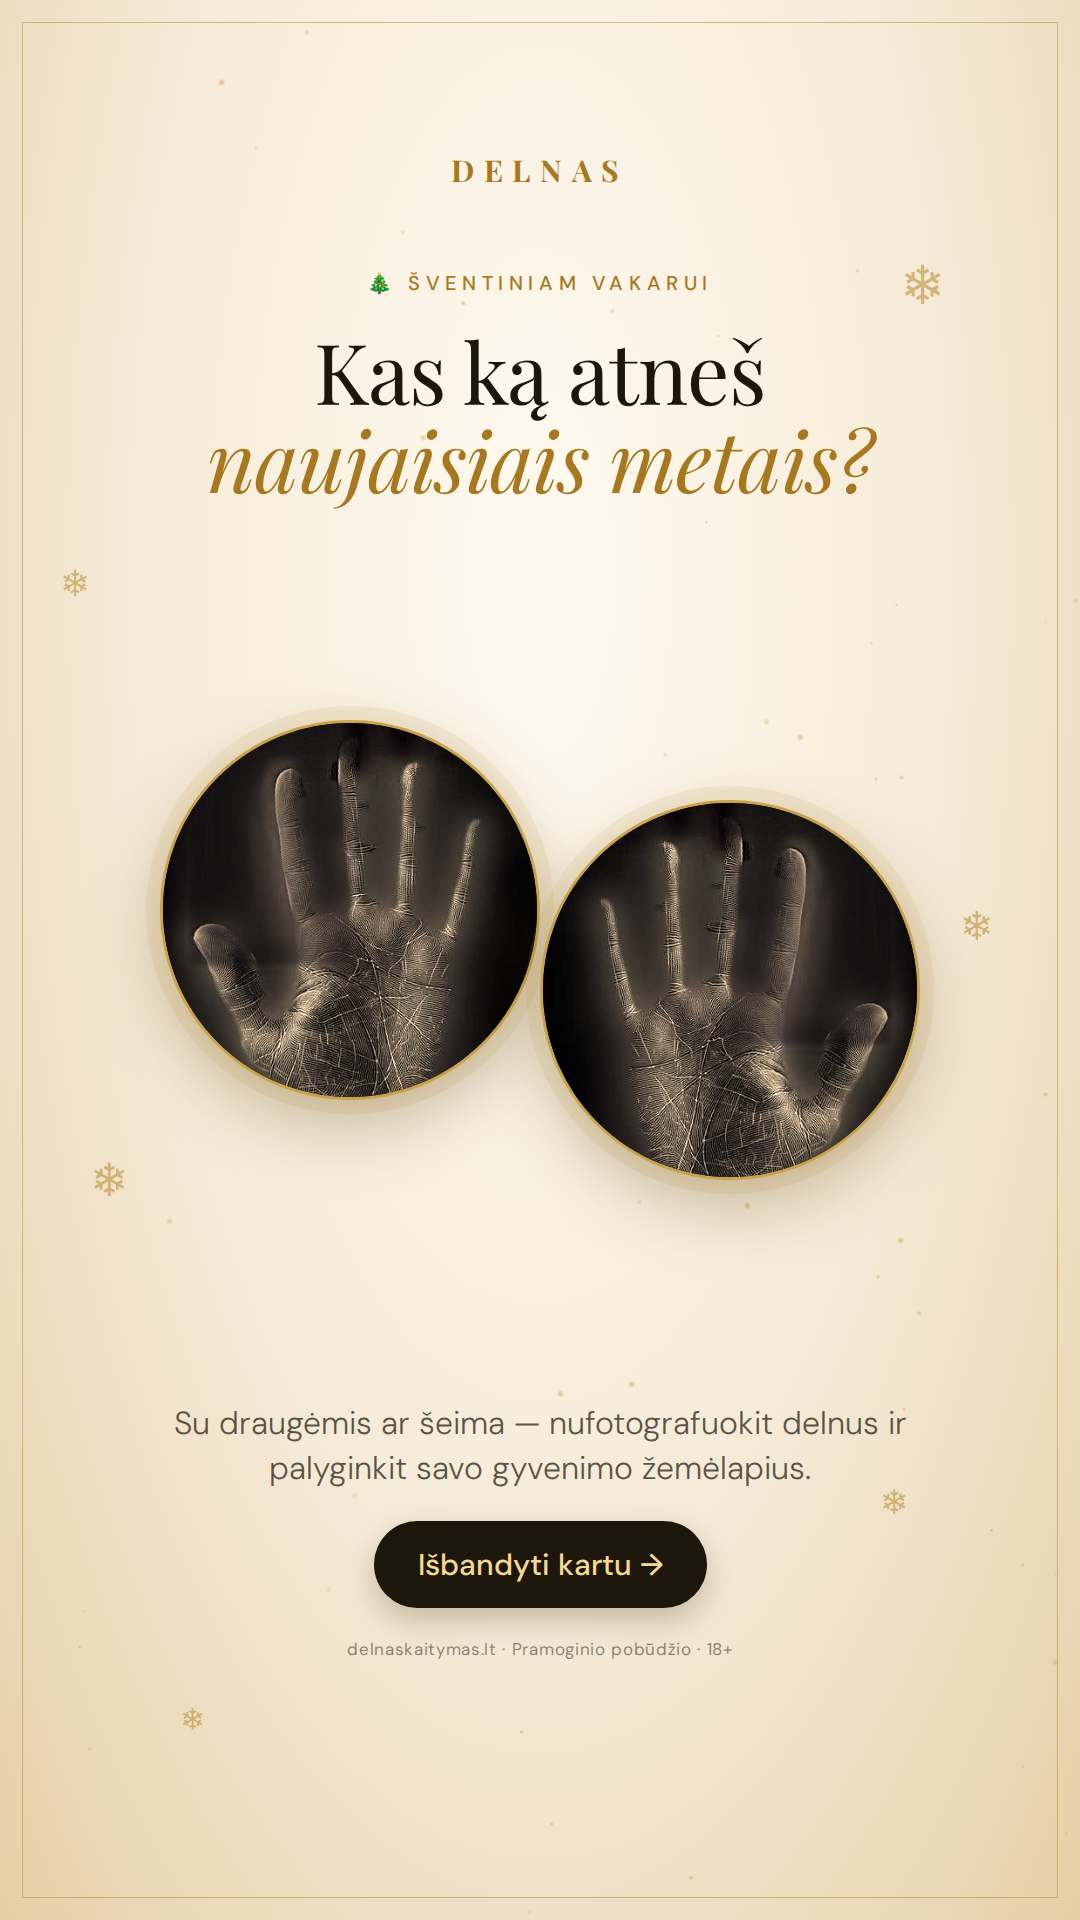
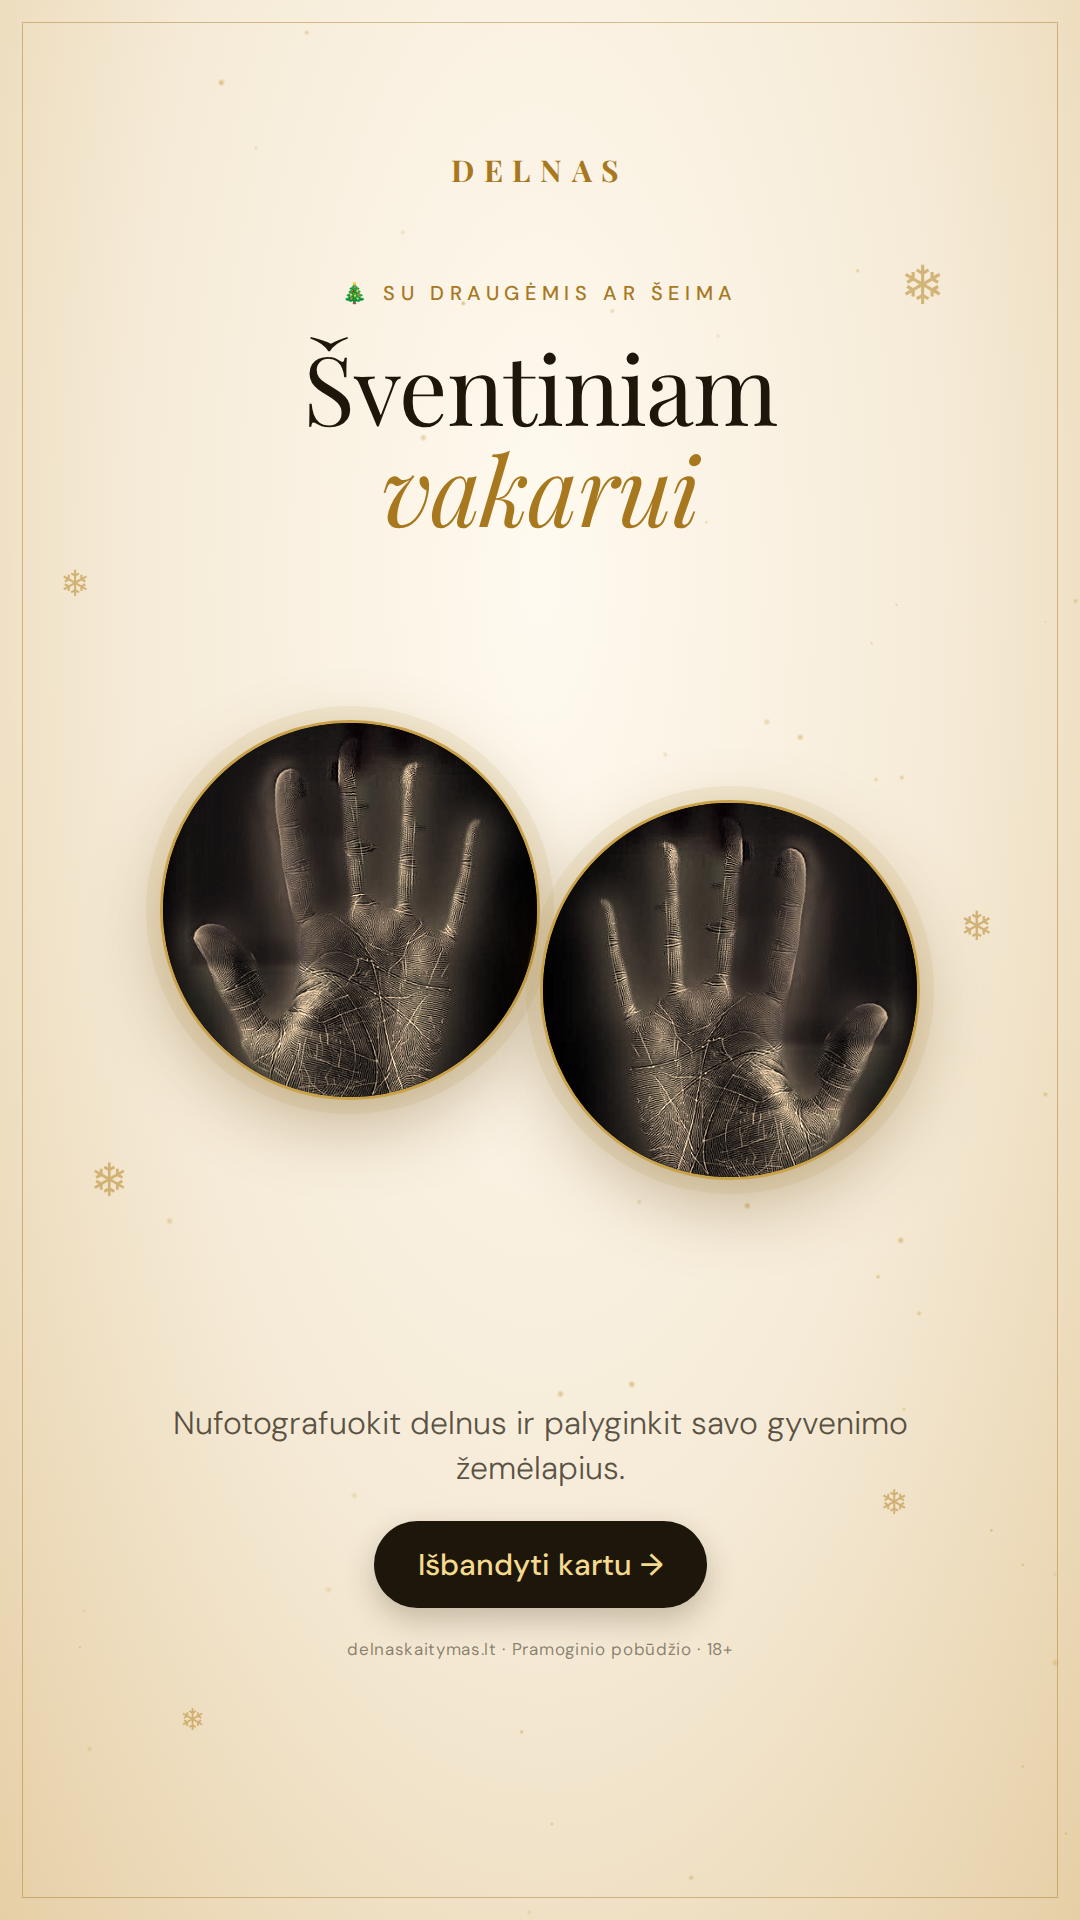
Reklamos: 28 — antraštė „Šventiniam vakarui“ vietoj „Kas ką atneš naujaisiais metais?“
Claude-Session: https://claude.ai/code/session_01SAS6jcXVwrehsNMXyhjzXP

Changed region(s): [[0.1833, 0.125, 0.825, 0.2812], [0.1528, 0.7188, 0.825, 0.7812]]

diff --git a/reklamos/reklamos.html b/reklamos/reklamos.html
@@ -715,12 +715,12 @@
 <div class="ad xmas light" id="28-kaledu-vakaras-story-1080x1920" style="width:1080px;height:1920px;padding:150px 90px 260px;align-items:center;text-align:center">
   <div class="flake" style="left:900px;top:250px;font-size:54px">❄</div><div class="flake" style="left:60px;top:560px;font-size:36px">❄</div><div class="flake" style="left:960px;top:900px;font-size:40px">❄</div><div class="flake" style="left:90px;top:1150px;font-size:46px">❄</div><div class="flake" style="left:880px;top:1480px;font-size:34px">❄</div><div class="flake" style="left:180px;top:1700px;font-size:30px">❄</div>
   <div class="brand">DELNAS</div>
-  <p class="eyebrow" style="margin-top:80px">🎄 Šventiniam vakarui</p>
-  <h1 style="font-size:84px;margin-top:30px">Kas ką atneš<br><em>naujaisiais metais?</em></h1>
+  <p class="eyebrow" style="margin-top:90px">🎄 Su draugėmis ar šeima</p>
+  <h1 style="font-size:96px;margin-top:30px">Šventiniam<br><em>vakarui</em></h1>
   <div class="medal" style="width:380px;height:380px;left:160px;top:720px"><i></i></div>
   <div class="medal" style="width:380px;height:380px;left:540px;top:800px"><i style="transform:scaleX(-1)"></i></div>
   <div style="margin-top:auto;display:flex;flex-direction:column;gap:30px;align-items:center">
-    <p class="sub" style="max-width:840px">Su draugėmis ar šeima — nufotografuokit delnus ir palyginkit savo gyvenimo žemėlapius.</p>
+    <p class="sub" style="max-width:840px">Nufotografuokit delnus ir palyginkit savo gyvenimo žemėlapius.</p>
     <div class="cta" style="align-self:center">Išbandyti kartu →</div>
     <div class="fine">delnaskaitymas.lt · Pramoginio pobūdžio · 18+</div>
   </div>

diff --git a/reklamos/TEKSTAI.md b/reklamos/TEKSTAI.md
@@ -270,7 +270,7 @@ Generuoti: `node reklamos/video-render.js video2.html delnas-reels-draugems-1080
 | `25-metu-pabaiga-1080x1350.png` | 4:5 | „Metų pabaiga — laikas pažvelgti į savo kelią“ |
 | `26-dovana-sau-1080x1080.png` | 1:1 | Šviesus · „Dovana sau pačiai“ |
 | `27-kaledu-vakaras-1080x1080.png` | 1:1 | „Kažkas naujo prie šventinio stalo“ (kartu) |
-| `28-kaledu-vakaras-story-1080x1920.png` | 9:16 | Šviesus · „Kas ką atneš naujaisiais metais?“ |
+| `28-kaledu-vakaras-story-1080x1920.png` | 9:16 | Šviesus · „Šventiniam vakarui“ (su draugėmis ar šeima) |
 | `29-nauji-metai-1080x1350.png` | 4:5 | „Nauji metai. Nauji tikslai. Nauji atsakymai.“ |
 | `30-kaledos-landscape-1200x628.png` | 1.91:1 | FB nuoroda / Google Display |
 | `video/delnas-reels-kaledos-1080x1920.mp4` | 9:16, 15 s | Vaizdo įrašas su krentančiu sniegu |
@@ -301,7 +301,7 @@ Gruodį reklamos kaina (CPM) aukščiausia — biudžetą verta padidinti ~20–
 
 **S — šventinis vakaras (27, 28)**
 > Kažkas naujo prie šventinio stalo ✨
-> Nufotografuokit delnus ir palyginkit savo gyvenimo žemėlapius — kas jus sieja, kuo skiriatės, ką atneš nauji metai? 👭
+> Nufotografuokit delnus ir palyginkit savo gyvenimo žemėlapius — kas jus sieja ir kuo skiriatės? 👭
 
 **T — Nauji metai (29)**
 > Nauji metai. Nauji tikslai. Nauji atsakymai.
